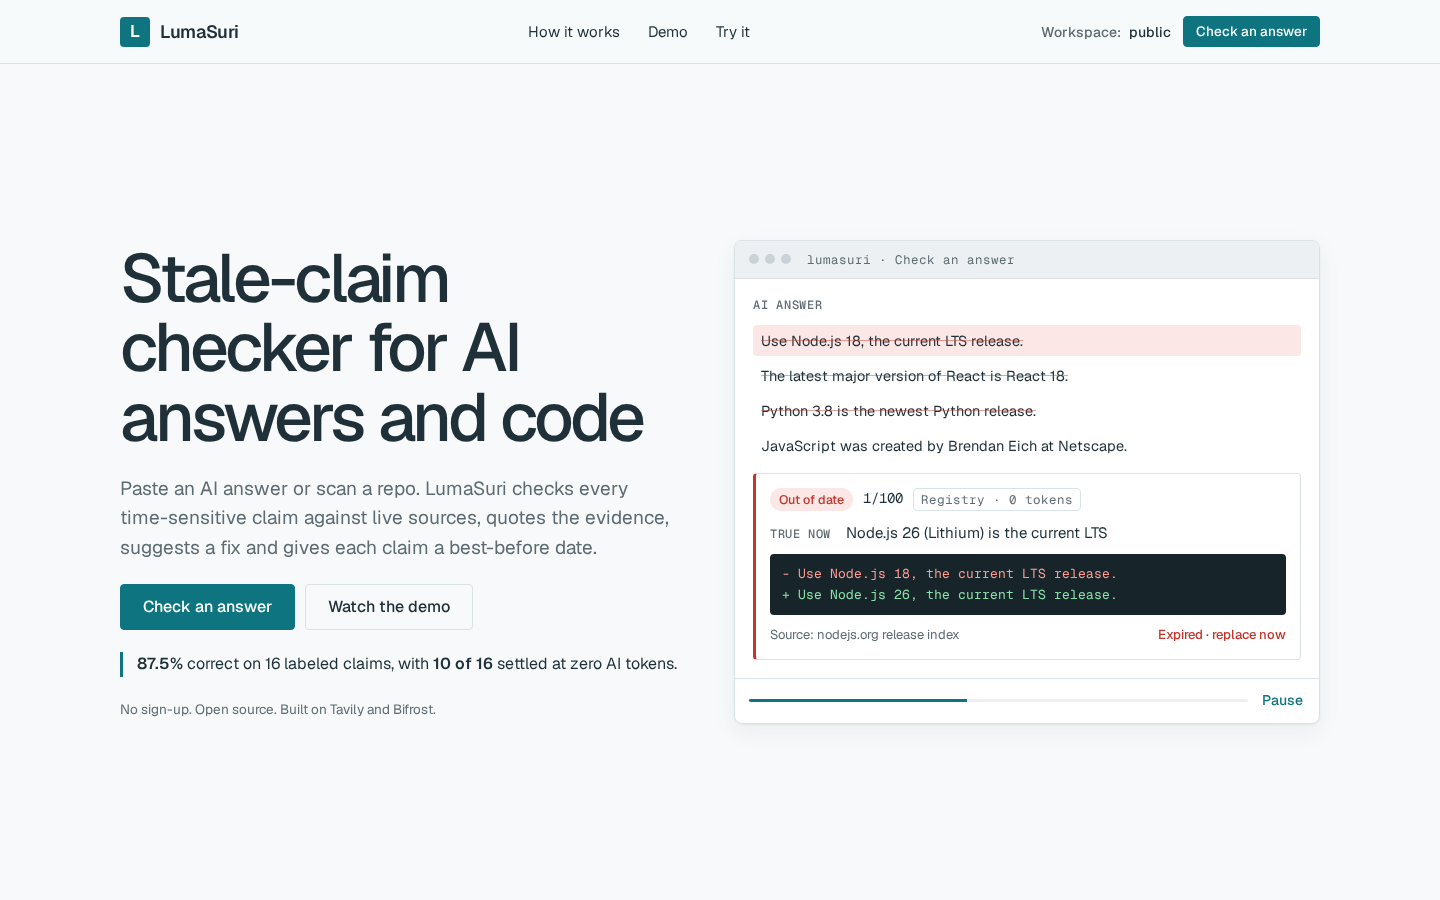
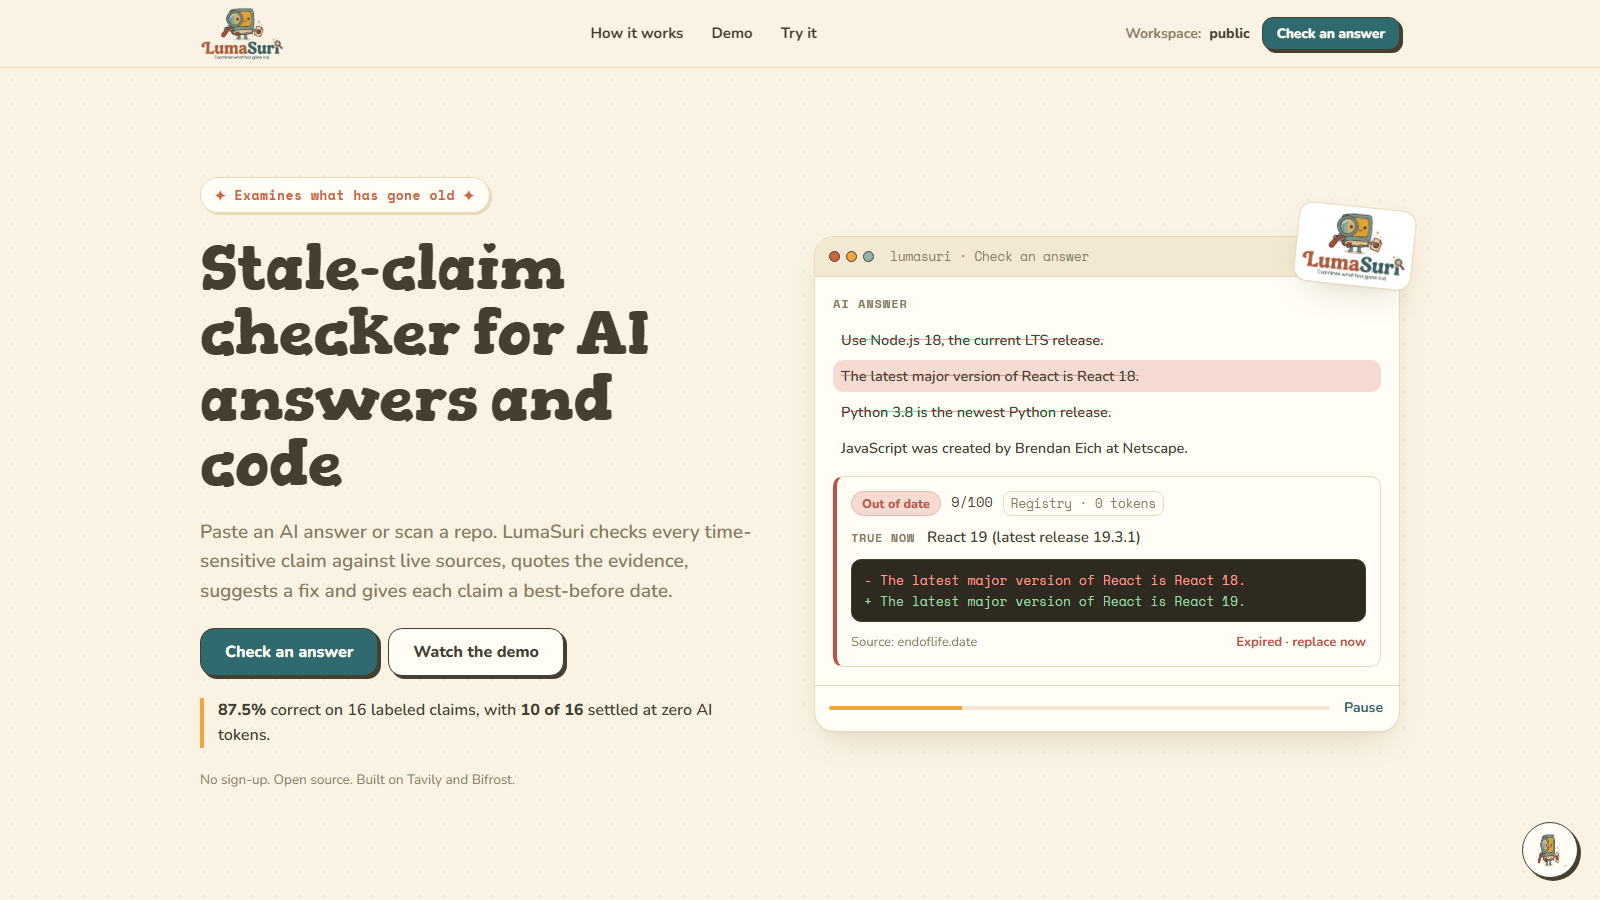
Add floating helper chatbot, refresh screenshots, polish mobile
- Knowledge-base chatbot (mascot fab): friendly answers about checks,
  live sources, fixes, Watch, scores, Bifrost, privacy; suggestion chips
- All six README screenshots regenerated with the new retro theme
- Mobile fixes: grid overflow, TRUE NOW label, sticker collision,
  compact pills, near-full-width chat panel
- README: drop submission-materials list, describe logo-theme styling

diff --git a/web/src/Chat.jsx b/web/src/Chat.jsx
@@ -1,0 +1,90 @@
+import { useEffect, useRef, useState } from 'react';
+
+// A small on-page helper: answers questions about LumaSuri from a curated
+// knowledge base, so it works instantly and even when the API is down.
+const QA = [
+  ['what lumasuri this app does do who', 'LumaSuri checks facts in AI answers and code for things that went stale — like saying "Node.js 18 is the LTS" when Node.js 26 is out. It verifies each fact against live sources, quotes the proof, and stamps every claim with a best-before date.'],
+  ['how work check steps process run start use', 'Three easy steps: 1) paste an AI answer or pick a repo, 2) press Check — LumaSuri finds claims that can go stale and verifies them, 3) read a card per claim with what is true now, the quoted source, and a fix you can copy.'],
+  ['live sources source verify true claim evidence quote', 'Each claim gets checked against real, live sources. Version questions go straight to official registries (npm, PyPI, nodejs.org, endoflife.date) for free. The rest are searched with Tavily, preferring official docs — and the judge must quote the exact sentence that proves it, or LumaSuri says unclear instead of guessing.'],
+  ['fix copy correct update stale change', 'Out-of-date claims show a diff: the old line crossed out and the corrected line. Press "Copy the fix" on a card, or "Copy all fixes" in the summary to grab every correction at once.'],
+  ['watch recheck re-check later expire monitor save', 'Press "Save to Watch" and each claim is checked again when its best-before date passes. Open the Watch tab, hit Re-check, and you will see what changed since it was saved — plus when the next check is due.'],
+  ['best before date expiry fresh', 'Facts decay at different speeds, so every claim gets a best-before date — like a milk carton. Fast-moving facts (model versions) get short dates; stable history gets long ones.'],
+  ['score freshness 100 ring verdict mean', 'The score (0–100) blends evidence support, recency, and how official the source is. 70+ still true, 40–69 getting old, below 40 out of date.'],
+  ['bifrost gateway model llm ai', 'Every AI call goes through Bifrost, an LLM gateway. It picks the right model, caches repeats, enforces a token budget, and fails over to a backup if a provider dies.'],
+  ['outage simulate fallback provider fail down', 'The "Simulate a provider outage" toggle breaks the main model on purpose, so you can watch Bifrost switch to a backup and the check still finish. The usage panel shows rerouted calls.'],
+  ['cost token tokens free price cheap money pay', 'Mostly free! Version claims are settled by registries at zero tokens, saved results reuse the ledger for free, and a per-run budget caps AI spend. Only real searches + judging cost tokens.'],
+  ['repo scan code repository comments github', 'The "Scan a repo" tab reads README, docs, code comments and package.json pins, then checks every claim the same way. On your own code: npx lumasuri scan .'],
+  ['history reports past old previous', 'History keeps every report you ran, with its score ring. Click one to see the full cards again.'],
+  ['workspace account login sign privacy data cookie', 'No accounts, passwords, or cookies. The optional workspace name just separates history and Watch lists in your browser. Keys stay on the server; reports live in a local database you can delete anytime.'],
+  ['tavily search web', 'Tavily is the search engine LumaSuri uses to find live evidence. Queries prefer official sources, and publish dates feed the freshness score.'],
+  ['who for market audience users', 'Teams shipping AI features, docs and repo maintainers, people pasting AI answers into tutorials — and anyone where a wrong answer costs money.'],
+  ['demo video', 'The 1-minute demo video in the Demo section shows the whole flow: a check, its evidence and fixes, Watch, and History.'],
+];
+
+const INTRO = 'Hey there! I am the LumaSuri helper. Ask me anything — like "how does a check work?", "how do I copy a fix?" or "what is Watch?"';
+const SUGGESTIONS = ['What is LumaSuri?', 'How does it check claims?', 'How do I copy a fix?', 'What does Watch re-check?', 'Is it free?'];
+const FALLBACK = 'Hmm, that one is beyond me — I only know LumaSuri. Try asking about how a check works, live sources, the score, fixes, Watch, repo scans, Bifrost, or privacy.';
+const GREETS = /^(hi|hii+|hello|hey|yo|sup|hola|good\s?(morning|afternoon|evening)|howdy)[!.\s]*$/i;
+const THANKS = /thank|thx|ty|nice|cool|great|awesome/i;
+const BYE = /^(bye|goodbye|see you|gtg|later|ciao)[!.\s]*$/i;
+
+function answer(raw) {
+  const q = raw.toLowerCase().replace(/[^a-z0-9\s]/g, ' ').replace(/\s+/g, ' ').trim();
+  if (GREETS.test(q)) return 'Hello! Happy to help — ask me anything about LumaSuri, or tap a question below.';
+  if (BYE.test(q)) return 'Bye for now! Holler if a claim goes stale on you.';
+  if (THANKS.test(q)) return 'Anytime! Anything else you would like to know about LumaSuri?';
+  if (q === 'ok' || q === 'okay' || q === 'kk' || q === 'sure') return 'Cool! Ask away whenever you are curious.';
+  const STOP = new Set('what is it the a an of for and or does do can i me you my your how who when where why to in on this that'.split(' '));
+  const q2 = q.replace(/re check/g, 'recheck');
+  const words = new Set(q2.split(' ').filter((w) => !STOP.has(w)));
+  const q3 = [...words].join(' ');
+  let best = null, bestScore = 0;
+  for (const [keys, a] of QA) {
+    const score = keys.split(' ').filter((k) => words.has(k) || q3.includes(k)).length;
+    if (score > bestScore) { best = a; bestScore = score; }
+  }
+  return bestScore >= 1 ? best : FALLBACK;
+}
+
+export default function Chat() {
+  const [open, setOpen] = useState(false);
+  const [msgs, setMsgs] = useState([{ who: 'bot', text: INTRO }]);
+  const [input, setInput] = useState('');
+  const logRef = useRef(null);
+  useEffect(() => { logRef.current?.scrollTo({ top: logRef.current.scrollHeight }); }, [msgs, open]);
+  const send = (q) => {
+    const text = (q ?? input).trim();
+    if (!text) return;
+    const userMsg = { who: 'user', text };
+    setMsgs((m) => [...m, userMsg]);
+    setInput('');
+    setTimeout(() => setMsgs((m) => [...m, { who: 'bot', text: answer(text) }]), 350);
+  };
+  return (
+    <>
+      <button className="chat-fab" onClick={() => setOpen((o) => !o)} aria-label={open ? 'Close help chat' : 'Open help chat'}>
+        {open ? '×' : <img src="/mascot.png" alt="LumaSuri helper" />}
+      </button>
+      {open && (
+        <div className="chat-box" role="dialog" aria-label="LumaSuri helper">
+          <div className="chat-head">
+            <img src="/mascot.png" alt="" /><b>Ask me about LumaSuri</b>
+            <button className="chat-close" onClick={() => setOpen(false)} aria-label="Close chat">×</button>
+          </div>
+          <div className="chat-log" ref={logRef}>
+            {msgs.map((m, i) => <p key={i} className={`chat-msg ${m.who}`}>{m.text}</p>)}
+            {(
+              <div className="chat-sugs">
+                {SUGGESTIONS.map((s) => <button key={s} className="chat-sug" onClick={() => send(s)}>{s}</button>)}
+              </div>
+            )}
+          </div>
+          <form className="chat-form" onSubmit={(e) => { e.preventDefault(); send(); }}>
+            <input value={input} onChange={(e) => setInput(e.target.value)} placeholder="Ask a question…" aria-label="Ask a question" />
+            <button className="btn small" type="submit">Send</button>
+          </form>
+        </div>
+      )}
+    </>
+  );
+}

diff --git a/web/src/styles.css b/web/src/styles.css
@@ -274,8 +274,40 @@ textarea:focus { border-color: var(--teal); background: #fffdf6; }
   .demo-line { font-size: 13.5px; }
   .ws-pop { width: min(300px, calc(100vw - 24px)); }
   .mini-input { grid-template-columns: 1fr 1fr; }
-  .preview-now span, .facts dt { min-width: 64px; }
+  .preview-now { display: block; }
+  .preview-now span { display: block; min-width: 0; margin-bottom: 3px; }
+  .preview .row.gap { gap: 5px; }
+  .pill, .tag { font-size: 11.5px; padding: 4px 8px; }
+  .facts dt { min-width: 64px; }
+  .mascot-sticker { display: none; }
+  .verdict { align-items: flex-start; }
+  .claim-text { overflow-wrap: anywhere; }
+  .chat-fab img { height: 56px; }
+  .chat-box { right: 12px; bottom: 96px; left: 12px; width: auto; }
+  .chat-fab { right: 12px; bottom: 16px; }
 }
+/* chat helper */
+.chat-fab { position: fixed; right: 22px; bottom: 22px; z-index: 60; padding: 0; border: 0; background: none; box-shadow: none; cursor: pointer; font-size: 24px; color: var(--ink); display: grid; place-items: center; transition: transform .15s var(--ease); }
+.chat-fab:hover { transform: translateY(-2px); }
+.chat-fab img { height: 72px; width: auto; object-fit: contain; filter: drop-shadow(2px 3px 0 rgba(69, 63, 49, .25)); }
+.chat-box { position: fixed; right: 22px; bottom: 96px; z-index: 60; width: min(360px, calc(100vw - 32px)); max-height: 480px; display: flex; flex-direction: column; background: var(--card); border: 1.5px solid var(--ink); border-radius: var(--r-lg); box-shadow: var(--pop); overflow: hidden; animation: rise .25s var(--ease); }
+.chat-head { display: flex; align-items: center; gap: 10px; padding: 12px 14px; background: var(--surface); border-bottom: 1.5px solid var(--line); font-weight: 800; }
+.chat-close { margin-left: auto; font: 800 18px/1 var(--font); background: none; border: 1.5px solid transparent; border-radius: 8px; width: 28px; height: 28px; cursor: pointer; color: var(--muted); }
+.chat-close:hover { color: var(--ink); border-color: var(--line); }
+.chat-head img { height: 34px; width: auto; object-fit: contain; }
+.chat-log { flex: 1; overflow-y: auto; padding: 14px; display: grid; gap: 8px; align-content: start; }
+.chat-msg { max-width: 88%; padding: 8px 12px; border-radius: 14px; font-size: 14px; font-weight: 600; line-height: 1.45; }
+.chat-msg.bot { background: var(--teal-soft); border: 1.5px solid #bfdccf; justify-self: start; border-bottom-left-radius: 4px; }
+.chat-msg.user { background: var(--amber-soft); border: 1.5px solid #eccd90; justify-self: end; border-bottom-right-radius: 4px; }
+.chat-sugs { display: flex; flex-wrap: nowrap; gap: 6px; margin-top: 4px; overflow-x: auto; scrollbar-width: none; }
+.chat-sugs::-webkit-scrollbar { display: none; }
+.chat-sug { flex: none; }
+.chat-sug { font: 700 12px var(--font); background: var(--card); border: 1.5px solid var(--line); border-radius: 999px; padding: 5px 10px; cursor: pointer; color: var(--teal); }
+.chat-sug:hover { border-color: var(--teal); }
+.chat-form { display: flex; gap: 8px; padding: 10px; border-top: 1.5px solid var(--line); background: var(--bg); }
+.chat-form input { flex: 1; font: 600 14px var(--font); color: var(--ink); border: 1.5px solid var(--line); border-radius: var(--r); padding: 9px 10px; background: var(--card); }
+.chat-form input:focus { border-color: var(--teal); outline: none; }
+
 @media (prefers-reduced-motion: reduce) {
   *, *::before, *::after { animation: none !important; transition: none !important; scroll-behavior: auto !important; }
 }

diff --git a/web/src/App.jsx b/web/src/App.jsx
@@ -1,4 +1,5 @@
 import { useEffect, useRef, useState } from 'react';
+import Chat from './Chat.jsx';
 
 const WS_KEY = 'lumasuri.workspace';
 const getWorkspace = () => localStorage.getItem(WS_KEY) || '';
@@ -562,11 +563,12 @@ export default function App() {
 
       <footer className="foot">
         <div className="wrap row between wrap-row">
-          <span className="foot-inner"><img className="foot-logo" src="/logo.png" alt="LumaSuri — examines what has gone old" /> LumaSuri · Global AI Hackathon, Problem Statement 06 · Tavily + Bifrost</span>
+          <span className="foot-inner"><img className="foot-logo" src="/logo.png" alt="LumaSuri — examines what has gone old" /> LumaSuri · Examines what has gone old</span>
           <a href="https://github.com/dioxaaa/lumasuri" target="_blank" rel="noreferrer">github.com/dioxaaa/lumasuri</a>
         </div>
       </footer>
       {toast && <div className="toast" role="status">{toast}</div>}
+      <Chat />
     </>
   );
 }

diff --git a/README.md b/README.md
@@ -29,12 +29,6 @@ Saved claims go into **LumaSuri Watch**. Watch re-verifies them when they expire
 | Cost | One LLM call per claim | **Registry first** (npm, PyPI, nodejs.org, endoflife.date, 0 tokens), then Tavily plus an LLM judge only when needed. A **cross-repo claim ledger** reuses verdicts until they expire |
 | Fix | "This is wrong" | One-line **fix diff** for the exact file and line |
 
-## Submission materials
-
-- Demo video: [`docs/video/LumaSuri-demo.mp4`](docs/video/LumaSuri-demo.mp4)
-- Pitch deck: [`docs/deck/LumaSuri-pitch.pdf`](docs/deck/LumaSuri-pitch.pdf) · [`.pptx`](docs/deck/LumaSuri-pitch.pptx) · [HTML source](docs/deck/deck.html)
-- Submission summary: [`docs/SUBMISSION.md`](docs/SUBMISSION.md)
-
 ## Using the web app
 
 Open `http://localhost:3311`. You don't need an account. The home page shows a live example report and a three-step "How a check works" guide, and it has the 2-minute demo video built in.
@@ -56,13 +50,7 @@ Open `http://localhost:3311`. You don't need an account. The home page shows a l
 | ![Home](docs/screenshots/01-home.png) | ![Report](docs/screenshots/03-report.png) | ![Watch](docs/screenshots/06-watch.png) |
 | ![Provider outage](docs/screenshots/04-outage.png) | ![Repo scan](docs/screenshots/05-scan.png) | ![Mobile](docs/screenshots/07-mobile.png) |
 
-The UI follows the [taste-skill](https://github.com/Leonxlnx/taste-skill) rules for software pages:
-- Palette (`cool-white-slate`) and font pairing (Geist and Geist Mono) chosen with the skill's own `start.mjs` script
-- Plain copy
-- Real product UI in the hero
-- Equal page margins
-- Quiet hover and press feedback
-- No scroll animations, and motion stops when reduced motion is on
+The UI is styled after the LumaSuri mascot logo: warm cream paper, teal and orange accents, chunky display type (Gorditas) over Nunito and Space Mono, ink-outlined "sticker" buttons, and a floating helper chatbot that explains every feature in plain words.
 
 ## Demo results (from this repo)
 
